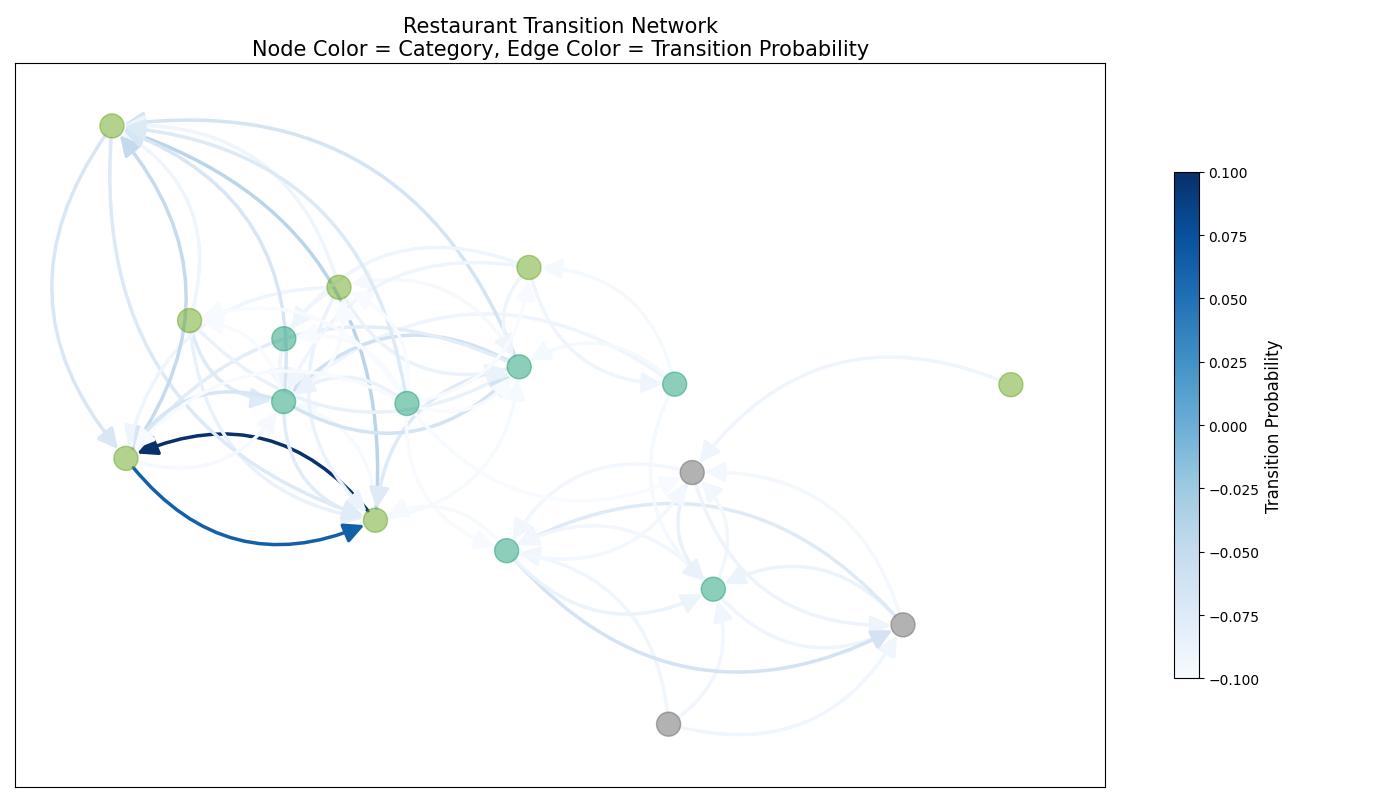
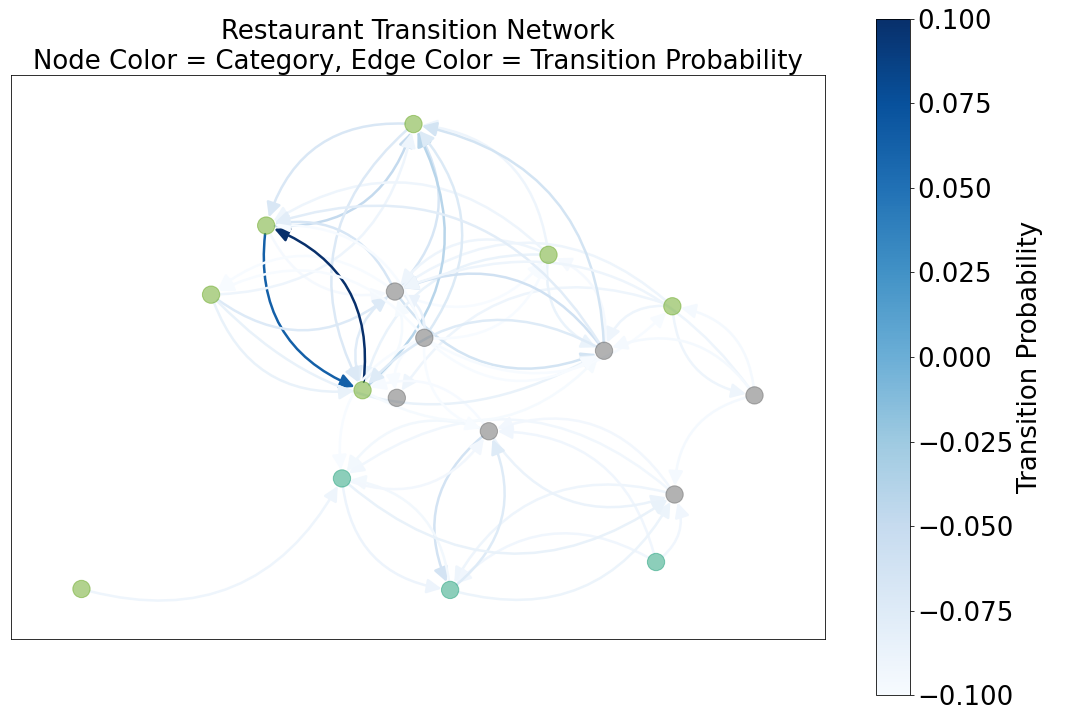
graph

diff --git a/TransitionNetwork.py b/TransitionNetwork.py
@@ -93,7 +93,7 @@ for node in G_dir.nodes:
     category = restaurant_info.get(node, [None]*7)[6]  # cleaned_category
     category_to_nodes[category].append(node)
 
-# Pick N nodes per category (e.g. 5 nodes from 4 categories)
+# 
 selected_categories = [ 'Austrian', 'Vietnamese', 'Fast Food' ]  
 nodes_per_category =10
 
@@ -120,7 +120,7 @@ categories = list(set(restaurant_info.get(n, [""]*7)[6] for n in G_sample.nodes)
 cmap_nodes = plt.cm.get_cmap("Dark2", len(categories))  # assign color per category
 cat_color_map = {cat: cmap_nodes(i) for i, cat in enumerate(categories)}
 
-k=0
+
 for node in G_sample.nodes:
     info = restaurant_info.get(node)
     rating = info[2]
@@ -129,8 +129,6 @@ for node in G_sample.nodes:
     p_u = 1 - (rating - 1) / 4
     p_u_values[node] = round(p_u, 2)
     category_labels[node] = f"\n{rating, name}" # uncomment if no data issues
-    #category_labels[node] = f"\n{rating, k}"    # uncomment if no data issues
-    k=k+1
     category_colors[node] = cat_color_map[category]
 
 # Get edge weights
@@ -168,10 +166,10 @@ sm.set_array(edge_weights)
 
 
 
-cbar = plt.colorbar(sm, ax=ax, shrink=0.7)
-cbar.set_label("Transition Probability", fontsize=12)
-
-plt.title("Restaurant Transition Network\nNode Color = Category, Edge Color = Transition Probability", fontsize=15)
+cbar = plt.colorbar(sm, ax=ax, shrink=1.2)
+cbar.set_label("Transition Probability", fontsize=26)
+cbar.ax.tick_params(labelsize=26)  
+plt.title("Restaurant Transition Network\nNode Color = Category, Edge Color = Transition Probability", fontsize=26)
 plt.tight_layout()
 #plt.savefig('TransitionNW.png')
 
